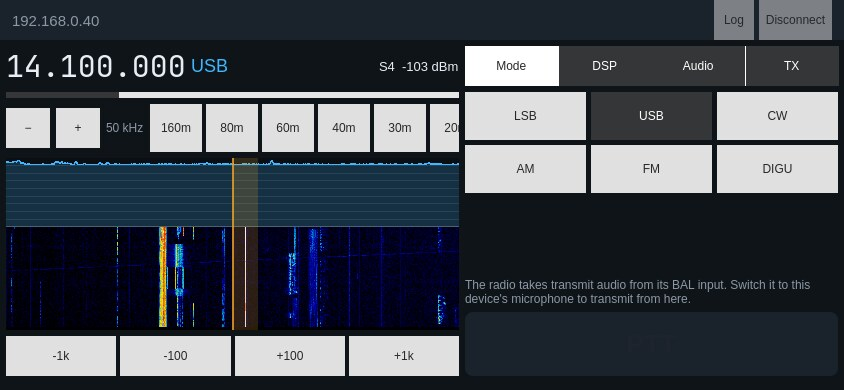
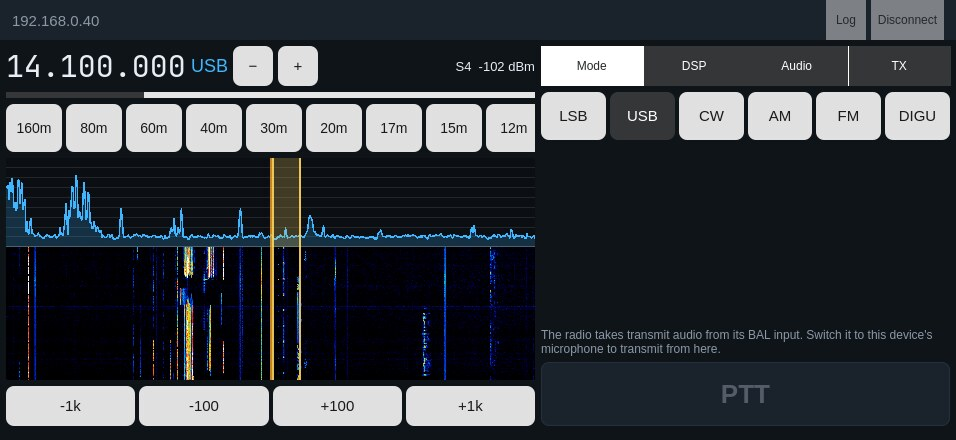
fix(mobile): correct spectrum on short views, steady pan size; refreshed screenshots. Principle VIII.
While regenerating the README screenshots, the iPhone-landscape render
showed the trace pinned to the top and an almost empty waterfall. There
were three causes:

- The left column's width followed text in the control column (the
  S-meter reading, wrapping labels), so the view oscillated between widths
  and every change re-sent xpixels, restarting the radio's FFT stream.
  The phone landscape spectrum column now has a fixed share of the width,
  the S-meter labels have a fixed width, and pan dimensions are sent only
  after the size has held for 400 ms.
- With ypixels below about 100 (88 here), FLEX 4.2.x pixels decoded far off
  (noise read as -50 dBm instead of about -123). The requested ypixels is
  now at least 200. It only sets vertical resolution, because the view
  scales dBm itself.
- The trace used a fixed -130..-40 dBm scale, so a quiet band hugged the
  bottom of a short view. It now auto-ranges: a little below the noise up to
  above the strongest signals, at least 50 dB, eased.

Screenshots:
- mobile/tools/update-screenshots.sh renders docs/mobile/*.jpg at every
  layout size (live radio or demo; the LSB shot always uses the demo, so a
  real radio's mode is never changed). --mode applies a mode to the demo
  slice for that shot.
- The README shows iPad Pro, iPad mini portrait, iPhone portrait and
  landscape and the LSB passband, and says how they are produced.
- The unused ipad-1024.jpg is removed.
[…]

diff --git a/mobile/qml/PhoneOperatePage.qml b/mobile/qml/PhoneOperatePage.qml
@@ -55,10 +55,13 @@ Page {
         rowSpacing: Theme.spacing / 2
 
         // ---- receive view: frequency, bands, spectrum, steps ----
+        // In landscape this column has a fixed share of the width, so text in
+        // the control column can never change the spectrum's size.
         ColumnLayout {
-            Layout.fillWidth: true
+            Layout.fillWidth: !page.landscape
             Layout.fillHeight: true
-            Layout.preferredWidth: page.landscape ? page.width * 0.58 : -1
+            Layout.preferredWidth: page.landscape ? Math.round(grid.width * 0.56) : -1
+            Layout.maximumWidth: page.landscape ? Math.round(grid.width * 0.56) : Number.POSITIVE_INFINITY
             spacing: Theme.spacing / 2
 
             RowLayout {
@@ -74,7 +77,15 @@ Page {
                 AppButton { text: "−"; implicitWidth: 40; implicitHeight: 40; onClicked: Engine.zoom(2.0) }
                 AppButton { text: "+"; implicitWidth: 40; implicitHeight: 40; onClicked: Engine.zoom(0.5) }
                 Item { Layout.fillWidth: true }
-                Label { text: Engine.sMeterText; color: Theme.text; font.pixelSize: 13 }
+                // Fixed width: a changing reading must not resize the row (and
+                // with it the spectrum, which would restart the radio's FFT).
+                Label {
+                    text: Engine.sMeterText
+                    color: Theme.text
+                    font.pixelSize: 13
+                    horizontalAlignment: Text.AlignRight
+                    Layout.preferredWidth: 104
+                }
             }
             ProgressBar {
                 Layout.fillWidth: true

diff --git a/mobile/qml/OperatePage.qml b/mobile/qml/OperatePage.qml
@@ -142,10 +142,12 @@ Page {
                 }
                 Item { Layout.fillWidth: true }
                 ColumnLayout {
+                    // Fixed width so a changing reading never resizes the row.
                     Label {
                         text: Engine.sMeterText
                         color: Theme.text
                         font.pixelSize: page.compact ? 16 : 22
+                        Layout.preferredWidth: page.compact ? 150 : 260
                     }
                     ProgressBar {
                         Layout.preferredWidth: page.compact ? 150 : 260

diff --git a/mobile/src/MobileEngine.cpp b/mobile/src/MobileEngine.cpp
@@ -21,6 +21,7 @@
 #include <QJSEngine>
 #include <QLoggingCategory>
 #include <QThread>
+#include <QTimer>
 
 #include <algorithm>
 #include <cmath>
@@ -39,6 +40,8 @@ constexpr double kS9Dbm = -73.0;
 constexpr quint16 kRadioTxAudioPort = 4991;
 const QString kLastAddressKey = QStringLiteral("MobileLastRadioAddress");
 const QString kDeviceMicSelection = QStringLiteral("PC");
+constexpr int kPanPixelsSettleMs = 400;
+constexpr int kMinPanYPixels = 200;
 constexpr double kDbPerSUnit = 6.0;
 
 } // namespace
@@ -85,6 +88,13 @@ MobileEngine::MobileEngine(QObject* parent)
         selectActiveSlice();
     });
     connect(&rm, &RadioModel::panDimensionsNeeded, this, &MobileEngine::sendPanDimensions);
+    m_panPixelsTimer.setSingleShot(true);
+    m_panPixelsTimer.setInterval(kPanPixelsSettleMs);
+    connect(&m_panPixelsTimer, &QTimer::timeout, this, [this] {
+        if (m_pan) {
+            sendPanDimensions(m_pan->panId());
+        }
+    });
 
     connect(&rm, &RadioModel::panFeedSpectrumReady, this,
             [this](quint32 streamId, const QVector<float>& bins, qint64, const SpectrumDecodeScale&) {
@@ -824,9 +834,10 @@ void MobileEngine::setPanPixels(int width, int height)
     }
     m_panWidth = width;
     m_panHeight = height;
-    if (m_pan) {
-        sendPanDimensions(m_pan->panId());
-    }
+    // Each new size restarts the radio's FFT stream at the new geometry, so
+    // only a size that has held for a moment is sent; layout settling and
+    // rotation produce bursts of intermediate sizes.
+    m_panPixelsTimer.start();
 }
 
 void MobileEngine::sendPanDimensions(const QString& panId)
@@ -837,9 +848,14 @@ void MobileEngine::sendPanDimensions(const QString& panId)
     }
     // Self-shaping backends take the width through the seam; the
     // xpixels/ypixels text is the Flex command-plane contract.
+    // ypixels sets only the FFT's vertical resolution (the view scales the
+    // dBm values itself). Below about 100 rows, 4.2.x firmware's pixels no
+    // longer decode to the right dBm (noise read as -50 dBm at 88 rows), so
+    // never ask for fewer than kMinPanYPixels.
+    const int yPixels = std::max(m_panHeight, kMinPanYPixels);
     if (!rm.requestLocalPanPixelWidth(panId, m_panWidth) && rm.hasCommandPlane()) {
         rm.sendCommand(QStringLiteral("display pan set %1 xpixels=%2 ypixels=%3")
-                           .arg(panId).arg(m_panWidth).arg(m_panHeight));
+                           .arg(panId).arg(m_panWidth).arg(yPixels));
     }
 }
 

diff --git a/mobile/src/SpectrumItem.cpp b/mobile/src/SpectrumItem.cpp
@@ -12,8 +12,12 @@ namespace AetherSDR::mobile {
 
 namespace {
 
-constexpr float kTraceMinDbm = -130.0f;
-constexpr float kTraceMaxDbm = -40.0f;
+// Trace scale: bottom a little below the noise, top above the strongest
+// signals, at least kTraceMinSpanDb tall, eased so the trace does not jump.
+constexpr float kTraceBelowNoiseDb = 8.0f;
+constexpr float kTraceAboveTopDb = 10.0f;
+constexpr float kTraceMinSpanDb = 50.0f;
+constexpr float kTraceSmoothing = 0.1f;
 constexpr float kRangeSmoothing = 0.05f;
 // Minimum colour span, in the row's units (dB-like for both Flex intensity
 // and dBm), so a noise-only band stays dark instead of being stretched.
@@ -86,6 +90,22 @@ void SpectrumItem::reportPixels()
 void SpectrumItem::onSpectrum(const QVector<float>& binsDbm)
 {
     m_spectrum = binsDbm;
+    if (!binsDbm.isEmpty()) {
+        QVector<float> sorted = binsDbm;
+        std::sort(sorted.begin(), sorted.end());
+        const float noise = sorted.at(sorted.size() / 2);
+        const float peak = sorted.last();
+        const float bottom = noise - kTraceBelowNoiseDb;
+        const float top = std::max(bottom + kTraceMinSpanDb, peak + kTraceAboveTopDb);
+        if (!m_traceSeeded) {
+            m_traceBottom = bottom;
+            m_traceTop = top;
+            m_traceSeeded = true;
+        } else {
+            m_traceBottom += (bottom - m_traceBottom) * kTraceSmoothing;
+            m_traceTop += (top - m_traceTop) * kTraceSmoothing;
+        }
+    }
     update();
 }
 
@@ -167,7 +187,7 @@ void SpectrumItem::paint(QPainter* painter)
         const qsizetype n = m_spectrum.size();
         for (qsizetype i = 0; i < n; ++i) {
             const qreal x = w * i / (n - 1);
-            const float norm = (m_spectrum.at(i) - kTraceMinDbm) / (kTraceMaxDbm - kTraceMinDbm);
+            const float norm = (m_spectrum.at(i) - m_traceBottom) / (m_traceTop - m_traceBottom);
             const qreal y = specH * (1.0 - std::clamp(norm, 0.0f, 1.0f));
             if (i == 0) {
                 path.moveTo(x, y);

diff --git a/mobile/src/main.cpp b/mobile/src/main.cpp
@@ -33,6 +33,10 @@ int main(int argc, char* argv[])
     const QCommandLineOption connectOption(QStringLiteral("connect"),
         QStringLiteral("Connect to the FlexRadio at <address> on start."), QStringLiteral("address"));
     parser.addOption(connectOption);
+    const QCommandLineOption modeOption(QStringLiteral("mode"),
+        QStringLiteral("With --demo: set the demo slice to <mode> after connecting (screenshots)."),
+        QStringLiteral("mode"));
+    parser.addOption(modeOption);
     const QCommandLineOption screenshotOption(QStringLiteral("screenshot"),
         QStringLiteral("Save the window to <file> after <ms> (default 8000), muted, then quit."),
         QStringLiteral("file"));
@@ -70,6 +74,11 @@ int main(int argc, char* argv[])
 
     if (parser.isSet(demoOption)) {
         engine.connectToDemoWhenListed();
+        if (parser.isSet(modeOption)) {
+            const QString mode = parser.value(modeOption);
+            QObject::connect(&engine, &AetherSDR::mobile::MobileEngine::modesChanged, &engine,
+                             [&engine, mode] { engine.setMode(mode); });
+        }
     } else if (parser.isSet(connectOption)) {
         engine.connectToAddress(parser.value(connectOption));
     }

diff --git a/mobile/src/MobileEngine.h b/mobile/src/MobileEngine.h
@@ -10,6 +10,7 @@
 #include <QObject>
 #include <QPointer>
 #include <QStringList>
+#include <QTimer>
 #include <QVector>
 #include <QtQml/qqmlregistration.h>
 
@@ -235,6 +236,7 @@ private:
     QString m_lastError;
     QString m_radioName;
     double m_sMeterDbm{-130.0};
+    QTimer m_panPixelsTimer;
     int m_panWidth{0};
     int m_panHeight{0};
 };

diff --git a/mobile/src/SpectrumItem.h b/mobile/src/SpectrumItem.h
@@ -48,6 +48,9 @@ private:
     float m_floor{0.0f};
     float m_span{0.0f};
     bool m_rangeSeeded{false};
+    float m_traceBottom{-130.0f};
+    float m_traceTop{-40.0f};
+    bool m_traceSeeded{false};
     double m_spectrumFraction{0.4};
 };
 

diff --git a/README.md b/README.md
@@ -65,8 +65,15 @@ radio interface, with no computer running alongside.
 <p align="center">
   <img src="docs/mobile/iphone-landscape.jpg" width="56%" alt="iPhone landscape layout"/>
   &nbsp;
-  <img src="docs/mobile/passband-lsb.jpg" width="38%" alt="LSB filter passband drawn left of the slice marker"/>
+  <img src="docs/mobile/ipad-mini-portrait.jpg" width="25%" alt="iPad mini portrait layout"/>
 </p>
+<p align="center">
+  <img src="docs/mobile/passband-lsb.jpg" width="50%" alt="LSB filter passband: fill over the spectrum, edge lines through the waterfall"/>
+</p>
+
+<sub>Screenshots are rendered by
+[`mobile/tools/update-screenshots.sh`](mobile/tools/update-screenshots.sh) and
+refreshed with every user-interface change.</sub>
 
 ## Status
 

diff --git a/mobile/README.md b/mobile/README.md
@@ -38,6 +38,13 @@ The `--demo` option connects to the simulator as soon as it is listed. Add
 `--screenshot out.png` to save the window after a delay and quit, which also
 works with `QT_QPA_PLATFORM=offscreen`.
 
+## README screenshots
+
+`mobile/tools/update-screenshots.sh [RADIO_IP]` builds the app and renders
+`docs/mobile/*.jpg` at every layout size (iPad Pro, iPad mini portrait, and
+iPhone portrait and landscape), plus the LSB passband from the demo radio.
+Run it with every user-interface change and commit the images with it.
+
 ## iOS
 
 `.github/workflows/mobile-ios.yml` builds the engine and the app for iOS arm64
